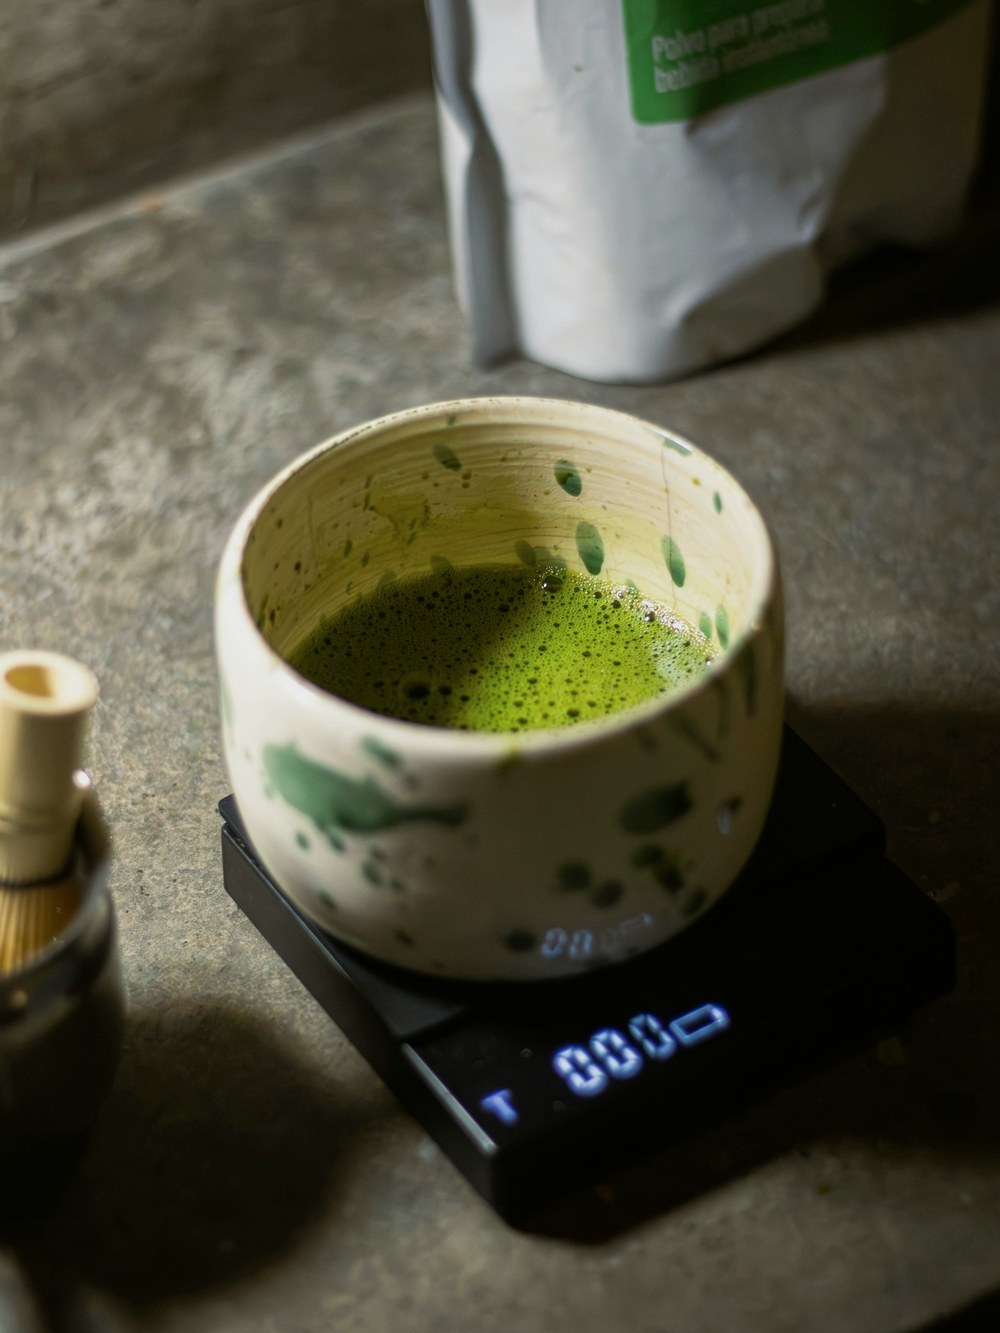
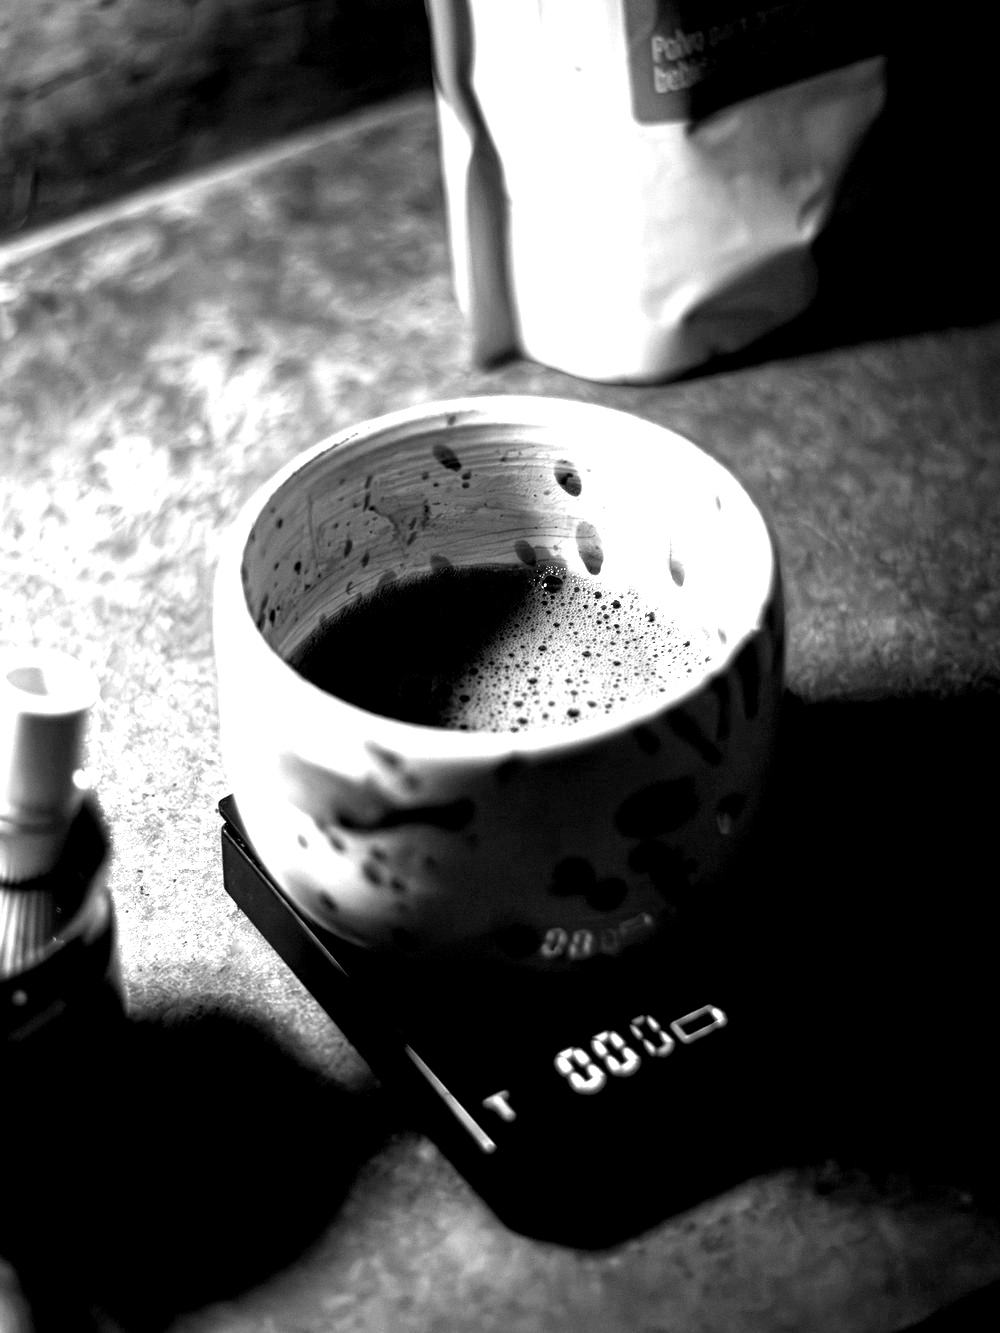
Bake the photocopy exposures into the bitmaps
The grayscale/contrast/invert chains that ran as CSS filter on 25 elements are applied to the source files once, at full resolution. Ungraded originals live in src/assets/.orig. Also the last three scrub values.

diff --git a/src/scripts/motion.ts b/src/scripts/motion.ts
@@ -273,7 +273,7 @@ function parallax(slide: El, props: El[]) {
     gsap.to(p, {
       yPercent: depth,
       ease: "none",
-      scrollTrigger: { trigger: slide, start: "top bottom", end: "bottom top", scrub: 0.7 },
+      scrollTrigger: { trigger: slide, start: "top bottom", end: "bottom top", scrub: 0.4 },
     });
   });
 }
@@ -331,7 +331,7 @@ function draws(slide: El) {
       start: "top 72%",
       endTrigger: (slide.nextElementSibling as El) || slide,
       end: slide.nextElementSibling ? "top 60%" : "bottom bottom",
-      scrub: 0.6,
+      scrub: 0.35,
     },
   });
 }
@@ -546,7 +546,7 @@ function dayRail() {
         start: "top 75%",
         endTrigger: next || slide,
         end: next ? "top 55%" : "bottom 20%",
-        scrub: 0.5,
+        scrub: 0.3,
       },
     })
     .fromTo(rows, { "--draw": 0 }, { "--draw": 1, ease: "none", duration: 1, stagger: 1 }, 0);

diff --git a/src/assets/.orig/README.md b/src/assets/.orig/README.md
@@ -1,0 +1,10 @@
+# Ungraded originals
+
+The photocopy exposures that used to run as CSS `filter` on `.cut`,
+`.cut--hard` and `.cut--bot` are baked into the files in `src/assets`, so the
+browser does not recompute 2.7 megapixels of grayscale, contrast and invert
+every time a board repaints.
+
+These are the files as shot. Re-grade from here, never from a baked file, or
+the exposure compounds. The chain each picture carries is written at the
+`.cut` rule in `src/styles/global.css`.
